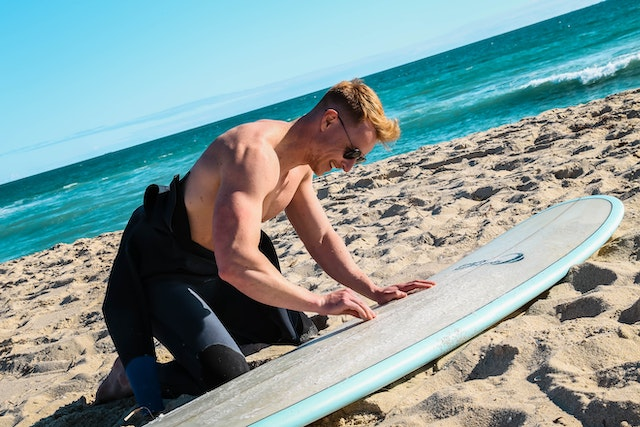
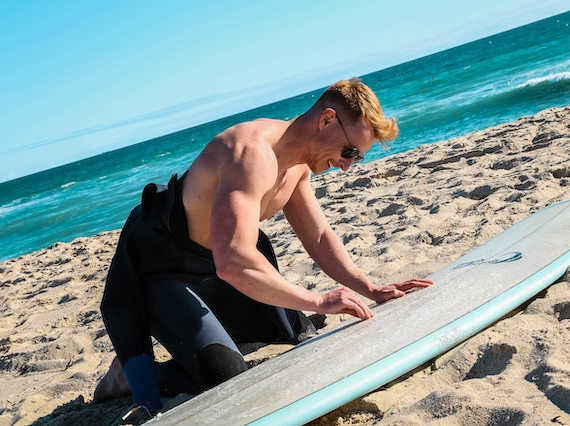
finalizado e imagenes optimizada

diff --git a/Ola Surf/src/components/Cards.vue b/Ola Surf/src/components/Cards.vue
@@ -6,7 +6,7 @@ import { RouterLink, RouterView } from "vue-router";
     <RouterLink to="/clases" class="link-secondary">
       <div class="col">
         <div class="card">
-          <img src="img/grupos.jpg" class="card-img-top" alt="..." />
+          <img src="img/grupo.jpg" class="card-img-top" alt="..." />
           <div class="card-body">
             <h5 class="card-title">Clases</h5>
             <p class="card-text">

diff --git a/Ola Surf/src/components/Carrusel.vue b/Ola Surf/src/components/Carrusel.vue
@@ -8,7 +8,7 @@
       <img src="img/carrusel1.jpg" class="d-block w-100" alt="...">
     </div>
     <div class="carousel-item">
-      <img src="img/carrusel.jpg" class="d-block w-100" alt="...">
+      <img src="img/carrusel3.jpg" class="d-block w-100" alt="...">
     </div>
   </div>
   <button class="carousel-control-prev" type="button" data-bs-target="#carouselExampleFade" data-bs-slide="prev">
